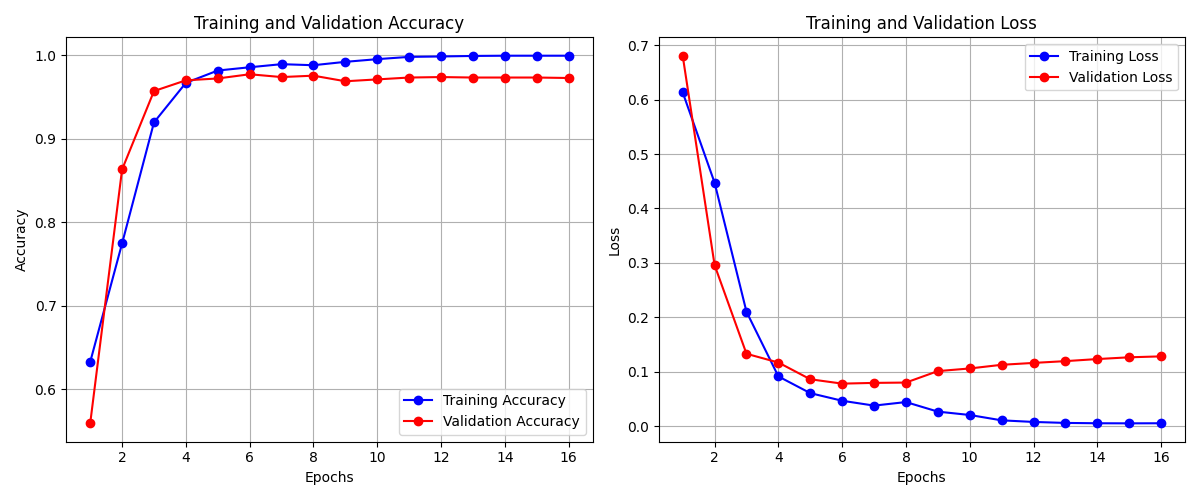
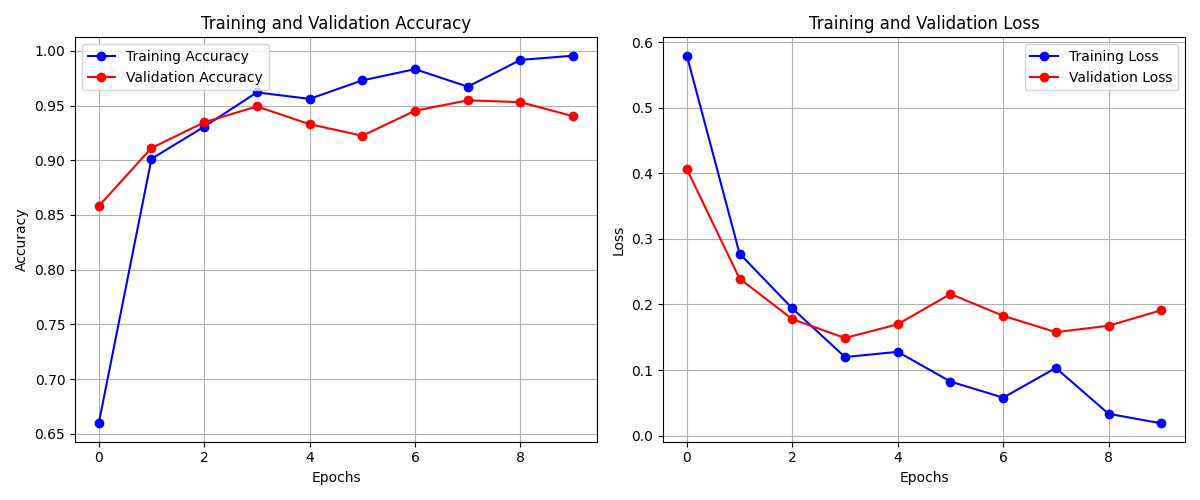
zsdfghjkl helpppppppppppppp

diff --git a/test.py b/test.py
@@ -10,17 +10,18 @@ X_train, X_validate, X_test, y_train, y_validate, y_test = joblib.load('0.2_spli
 # model = joblib.load('mlp_fake_news_model_0.2.pkl')
 # vectorizer = joblib.load('tfidf_vectorizer_0.2.pkl')
 model = keras.models.load_model('./model/best_cnn_rnn_model.keras')
+model.summary()
 
 # X_test = vectorizer.transform(X_test)
-y_pred_prob = model.predict(X_test).ravel()  # Flatten to 1D array
-y_pred = (y_pred_prob > 0.5).astype(int)
+# y_pred_prob = model.predict(X_test).ravel()  # Flatten to 1D array
+# y_pred = (y_pred_prob > 0.5).astype(int)
 
-print("First 10 predictions:", y_pred_prob[:10])
+# print("First 10 predictions:", y_pred_prob[:10])
 
 
 
-print("Accuracy:", accuracy_score(y_test, y_pred))
-print("\nClassification Report:\n", classification_report(y_test, y_pred))
+# print("Accuracy:", accuracy_score(y_test, y_pred))
+# print("\nClassification Report:\n", classification_report(y_test, y_pred))
 
 # cm = confusion_matrix(y_test, y_pred)
 # sns.heatmap(cm, annot=True, fmt='d', cmap='Blues')
@@ -43,18 +44,19 @@ print("\nClassification Report:\n", classification_report(y_test, y_pred))
 # print("--- Final Evaluation On Test Set ---")
 # print("MLP Model Accuracy:", accuracy_score(y_test, y_pred))
 # print("MLP Model ROC AUC Score:", roc_auc_score(y_test, y_pred))
-fpr, tpr, thresholds = roc_curve(y_test, y_pred_prob)
-roc_auc = auc(fpr, tpr)
 
-plt.figure(figsize=(8, 6))
-plt.plot(fpr, tpr, color='darkorange', lw=2, label=f'ROC Curve (AUC = {roc_auc:.2f})')
-plt.plot([0, 1], [0, 1], color='navy', lw=2, linestyle='--', label='Random Guessing')
+# fpr, tpr, thresholds = roc_curve(y_test, y_pred_prob)
+# roc_auc = auc(fpr, tpr)
 
-plt.xlim([0.0, 1.0])
-plt.ylim([0.0, 1.05])
-plt.xlabel('False Positive Rate (False Alarms)')
-plt.ylabel('True Positive Rate (Recall / Sensitivity)')
-plt.title('Receiver Operating Characteristic (ROC) for Fake News Model')
-plt.legend(loc="lower right")
-plt.grid(alpha=0.3)
-plt.show()
+# plt.figure(figsize=(8, 6))
+# plt.plot(fpr, tpr, color='darkorange', lw=2, label=f'ROC Curve (AUC = {roc_auc:.2f})')
+# plt.plot([0, 1], [0, 1], color='navy', lw=2, linestyle='--', label='Random Guessing')
+
+# plt.xlim([0.0, 1.0])
+# plt.ylim([0.0, 1.05])
+# plt.xlabel('False Positive Rate (False Alarms)')
+# plt.ylabel('True Positive Rate (Recall / Sensitivity)')
+# plt.title('Receiver Operating Characteristic (ROC) for Fake News Model')
+# plt.legend(loc="lower right")
+# plt.grid(alpha=0.3)
+# plt.show()

diff --git a/basic_cnn+rnn.py b/basic_cnn+rnn.py
@@ -1,0 +1,67 @@
+import numpy as np
+import joblib
+import keras
+import tensorflow as tf
+from sklearn.metrics import accuracy_score, classification_report
+import matplotlib.pyplot as plt
+
+X_train, X_validate, X_test, y_train, y_validate, y_test = joblib.load('0.2_split_data.joblib')\
+
+vectorizer = keras.layers.TextVectorization(
+    max_tokens=5000,
+    output_mode="int",
+    output_sequence_length=500
+)
+vectorizer.adapt(X_train)
+
+model = keras.models.Sequential([
+    keras.layers.Input(shape=(1,), dtype='string'),
+    vectorizer,
+    keras.layers.Embedding(input_dim=5000, output_dim=300),
+    keras.layers.Conv1D(filters=128, kernel_size=5, activation='relu'),
+    keras.layers.MaxPooling1D(pool_size=2),
+    keras.layers.LSTM(32),
+    keras.layers.Dense(1, activation='sigmoid')
+])
+model.summary()
+
+model.compile(
+    optimizer=keras.optimizers.Adam(),
+    loss='binary_crossentropy',
+    metrics=['accuracy']
+)
+
+history = model.fit(
+    X_train,
+    y_train,
+    epochs=10,
+    batch_size=64,
+    validation_data=(X_validate, y_validate)
+)
+
+y_pred_prob = model.predict(X_test)
+y_pred = (y_pred_prob > 0.5).astype(int)
+print("Accuracy:", accuracy_score(y_test, y_pred))
+print("\nClassification Report:\n", classification_report(y_test, y_pred))
+
+plt.figure(figsize=(12, 5))
+plt.subplot(1, 2, 1)
+plt.plot(history.history['accuracy'], 'bo-', label='Training Accuracy')
+plt.plot(history.history['val_accuracy'], 'ro-', label='Validation Accuracy')
+plt.title('Training and Validation Accuracy')
+plt.xlabel('Epochs')
+plt.ylabel('Accuracy')
+plt.legend()
+plt.grid(True)
+
+plt.subplot(1, 2, 2)
+plt.plot(history.history['loss'], 'bo-', label='Training Loss')
+plt.plot(history.history['val_loss'], 'ro-', label='Validation Loss')
+plt.title('Training and Validation Loss')
+plt.xlabel('Epochs')
+plt.ylabel('Loss')
+plt.legend()
+plt.grid(True)
+plt.tight_layout()
+plt.savefig('./model/training_validation_curves.png')
+plt.show()
